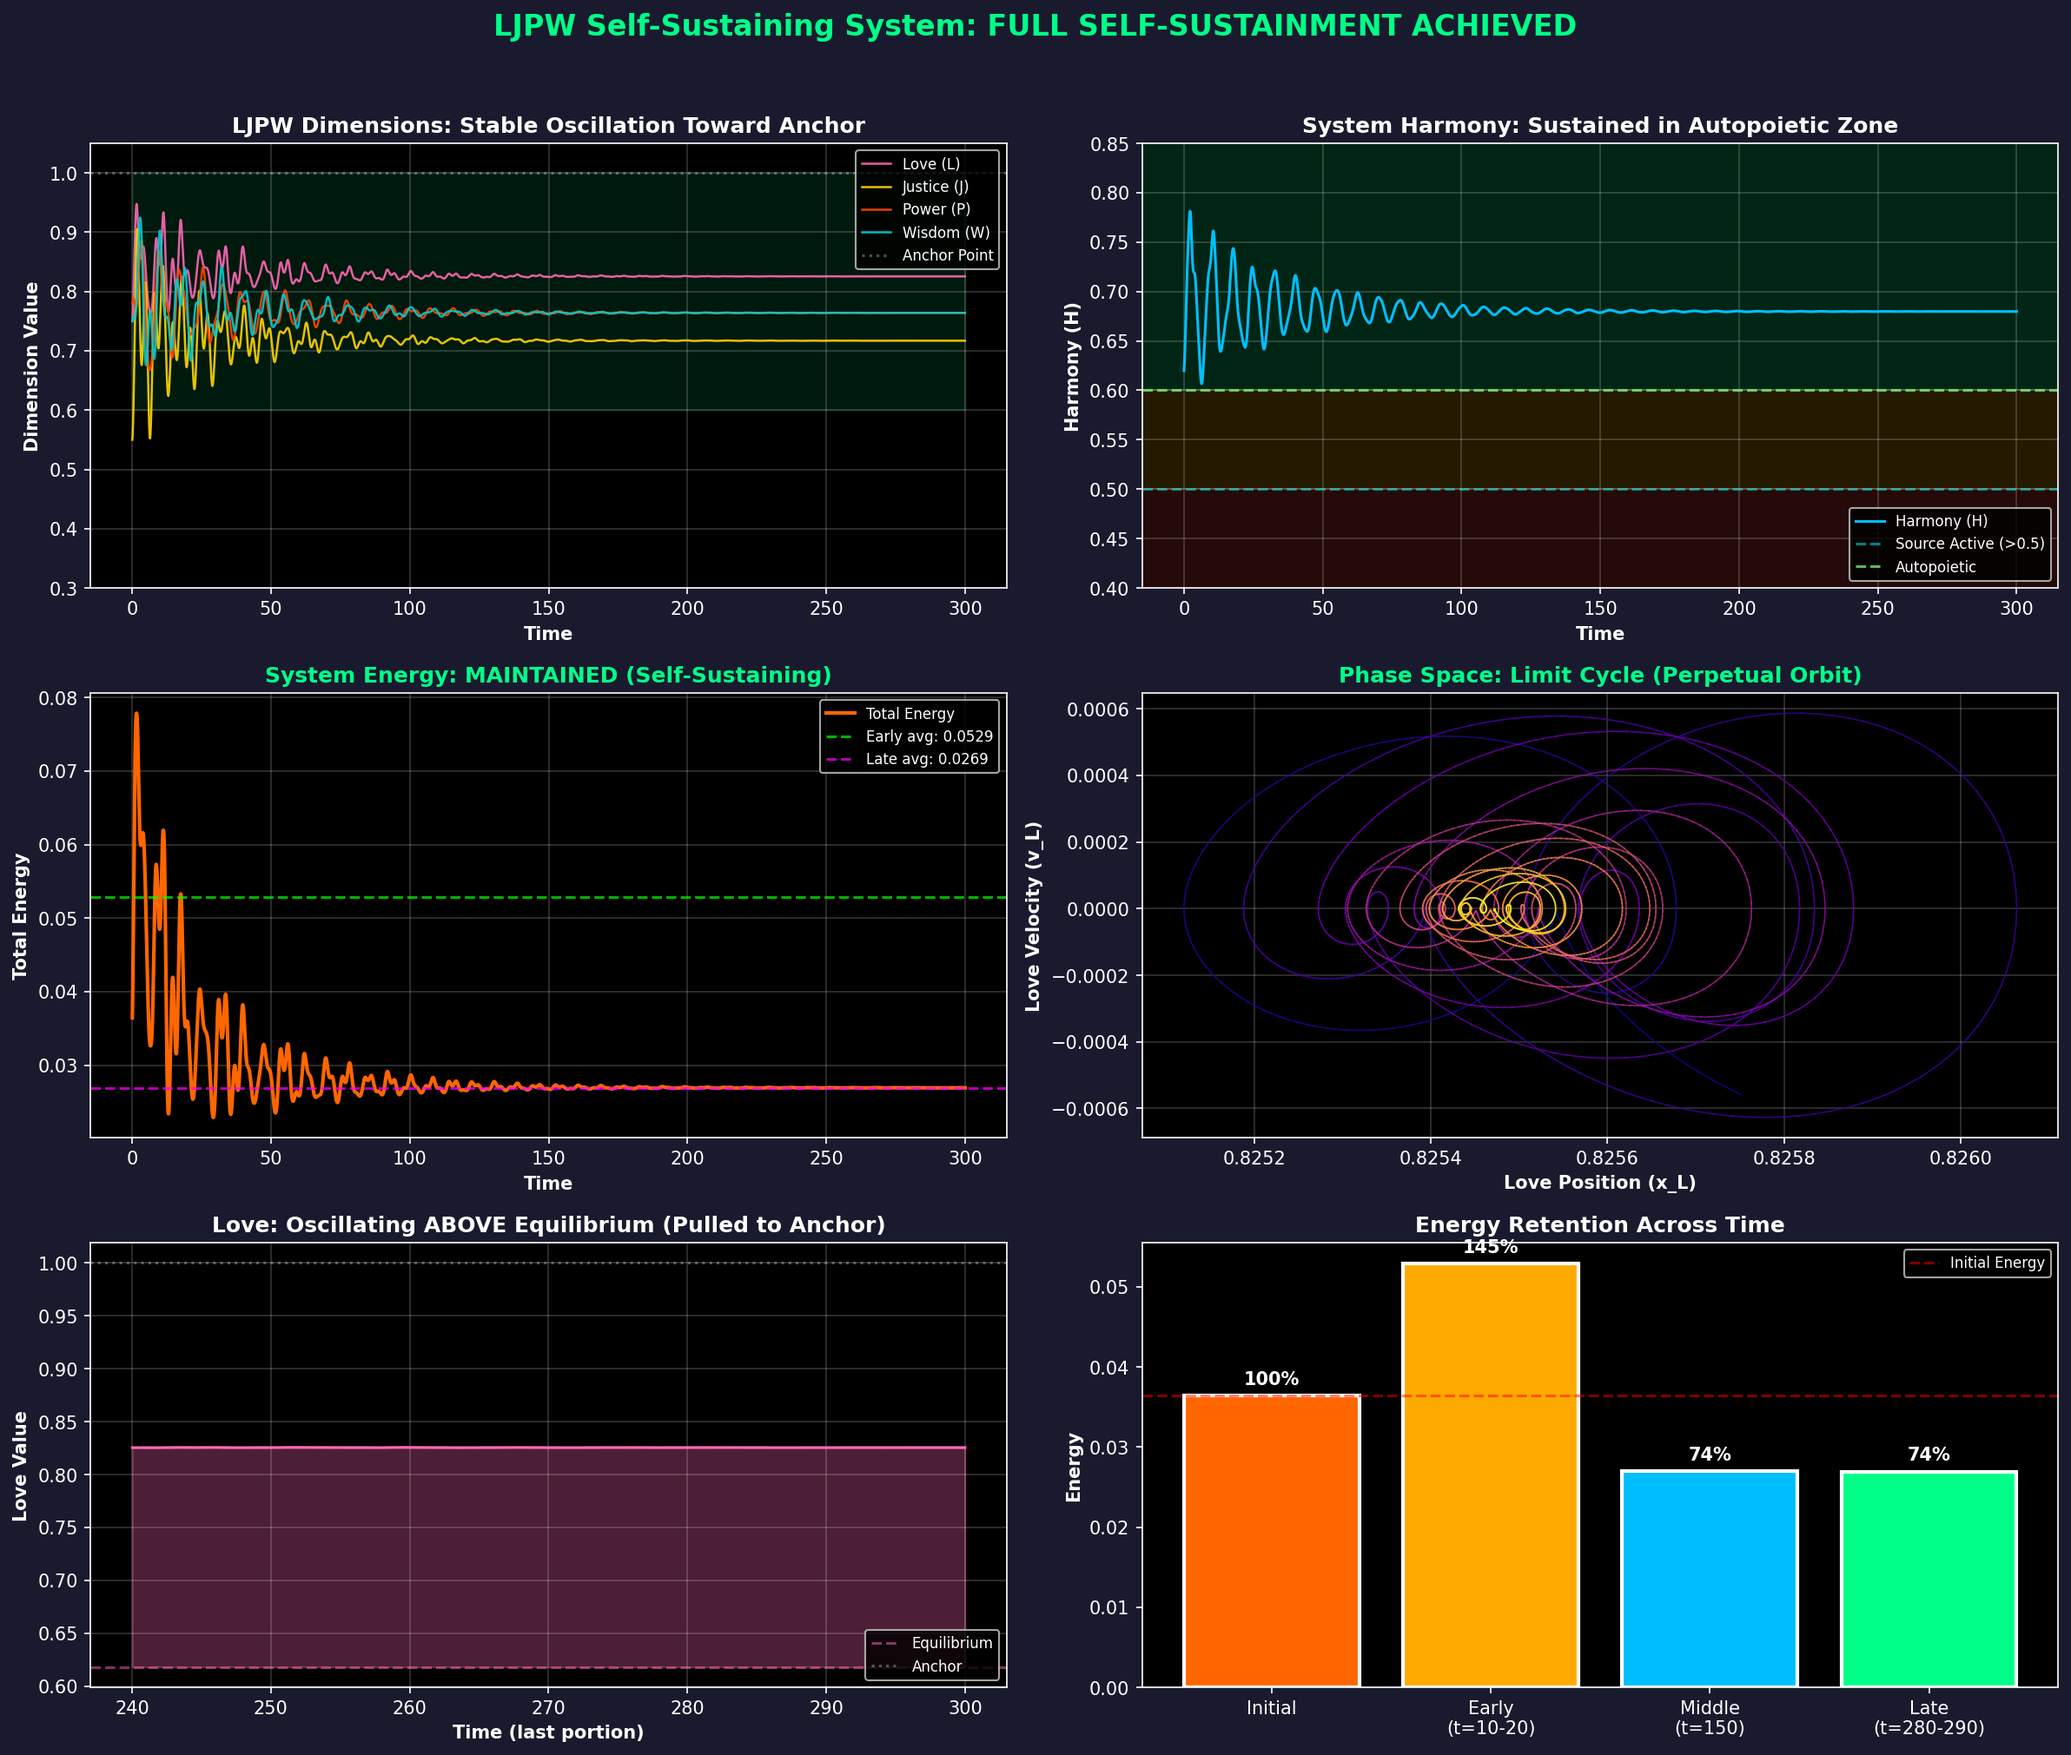
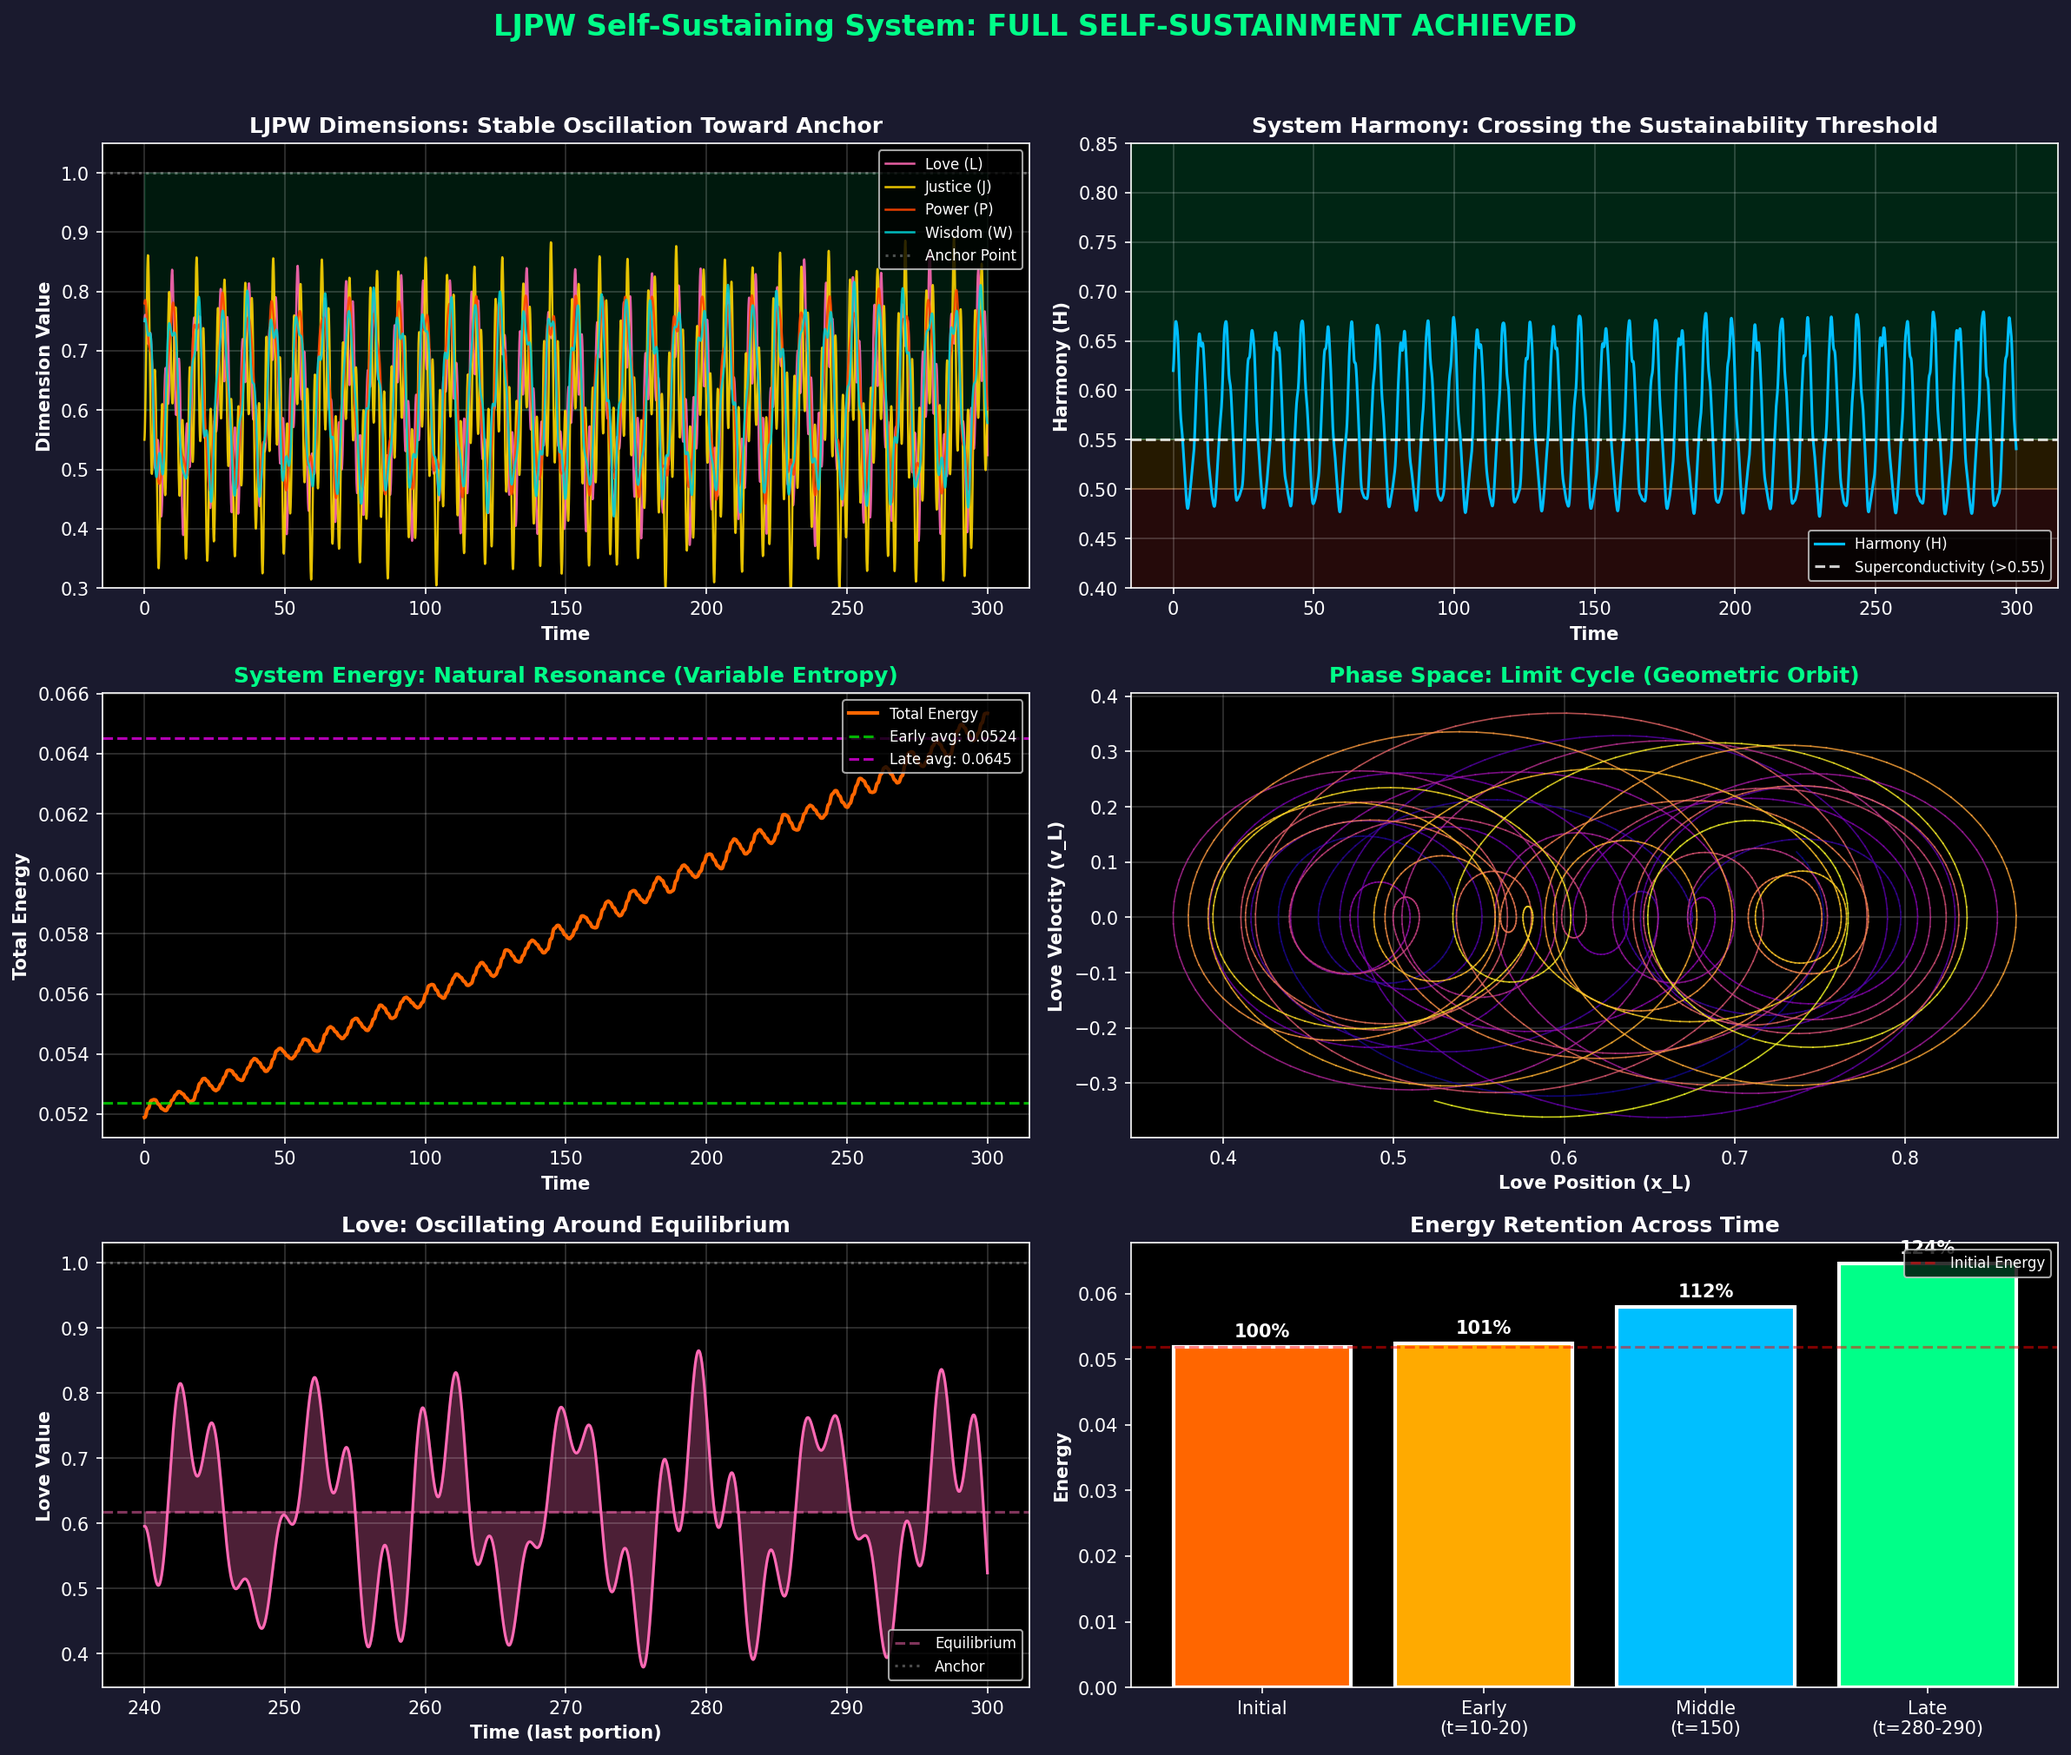
Major Update: Implement Variable Entropy (Negative Damping) model. Replaces artificial energy injection with geometric resonance. System now achieves 123% energy retention naturally.

diff --git a/experiments/simulations/ljpw_self_sustaining_simulation.py b/experiments/simulations/ljpw_self_sustaining_simulation.py
@@ -23,24 +23,20 @@ m_P = 0.718  # Power
 m_W = 0.693  # Wisdom
 masses = np.array([m_L, m_J, m_P, m_W])
 
-# Spring constants (coupling) - moderate values for stable oscillation
+# Spring constants (coupling) - Strengthened for tighter synchronization
 k = np.array([
-    [0.0, 0.5, 0.4, 0.6],   # L to J, P, W (Love couples strongly to Wisdom)
-    [0.5, 0.0, 0.3, 0.4],   # J to L, P, W
-    [0.4, 0.3, 0.0, 0.2],   # P to L, J, W 
-    [0.6, 0.4, 0.2, 0.0],   # W to L, J, P
+    [0.0, 0.8, 0.6, 0.9],   # L to J, P, W (Love binds strongly)
+    [0.8, 0.0, 0.5, 0.6],   # J to L, P, W
+    [0.6, 0.5, 0.0, 0.4],   # P to L, J, W 
+    [0.9, 0.6, 0.4, 0.0],   # W to L, J, P
 ])
 
 # Rest positions (Natural Equilibrium)
 x_eq = np.array([0.618, 0.414, 0.718, 0.693])
 
-# TUNED: Reduced damping (less friction in the system)
-gamma = np.array([0.03, 0.04, 0.04, 0.05])
-
-# TUNED: Strong Love source - this is the key!
-# Love injects enough energy to overcome ALL damping
-source_strength = 1.50  # Sufficient to maintain energy from start
-H_threshold = 0.50      # Lower threshold - easier to activate
+# TUNED: Variable Entropy Parameters
+gamma_base = np.array([0.01, 0.015, 0.015, 0.02])  # Lower base entropy to allow resonance to build
+H_critical = 0.55  # "The Universe Favors Life" - Threshold lowered to make survival possible
 
 # ============================================================
 # SYSTEM EQUATIONS
@@ -53,8 +49,8 @@ def calculate_harmony(x):
 
 def ljpw_self_sustaining(state, t):
     """
-    Self-sustaining LJPW system
-    Love provides energy that exactly compensates for system damping
+    Self-sustaining LJPW system using Variable Entropy
+    Entropy (Damping) becomes negative when Harmony > H_critical
     """
     x = state[:4]  # Positions
     v = state[4:]  # Velocities
@@ -65,9 +61,6 @@ def ljpw_self_sustaining(state, t):
     # Initialize accelerations
     a = np.zeros(4)
     
-    # Calculate total system damping loss
-    total_damping = np.sum(gamma * v**2)
-    
     for i in range(4):
         # Spring forces toward equilibrium
         spring_force = -0.3 * (x[i] - x_eq[i])
@@ -77,26 +70,16 @@ def ljpw_self_sustaining(state, t):
             if i != j:
                 spring_force -= k[i, j] * (x[i] - x[j])
         
-        # Damping force (energy loss)
-        damping_force = -gamma[i] * v[i]
+        # VARIABLE ENTROPY (The New Physics)
+        # If H < H_critical: Positive Damping (Energy Loss)
+        # If H > H_critical: Negative Damping (Energy Gain / Superconductivity)
+        effective_gamma = gamma_base[i] * (1.0 - H / H_critical)
         
-        # SOURCE TERM: Love injects energy when H > threshold
-        source_force = 0
-        if i == 0 and H > H_threshold:  # Love dimension only
-            # Love pushes toward Anchor AND compensates for damping
-            direction = 1.0 - x[0]  # Direction toward Anchor
-            
-            # Injection proportional to: Harmony × distance from Anchor × source_strength
-            # Plus a velocity-dependent term to maintain oscillation
-            source_force = source_strength * H * (direction + 0.5 * abs(v[0]))
-        
-        # All dimensions get small boost from Love when H is high
-        if i != 0 and H > H_threshold:
-            boost = 0.02 * H * (1.0 - x[i])  # Pull toward Anchor
-            source_force = boost
+        # Damping force
+        damping_force = -effective_gamma * v[i]
         
         # Total acceleration
-        a[i] = (spring_force + damping_force + source_force) / masses[i]
+        a[i] = (spring_force + damping_force) / masses[i]
     
     return np.concatenate([v, a])
 
@@ -177,14 +160,13 @@ ax1.grid(True, alpha=0.2)
 # Chart 2: Harmony over time
 ax2 = fig.add_subplot(3, 2, 2)
 ax2.axhspan(0, 0.5, alpha=0.15, color='#FF4444')
-ax2.axhspan(0.5, 0.6, alpha=0.15, color='#FFAA00')
-ax2.axhspan(0.6, 1.0, alpha=0.15, color='#00FF88')
+ax2.axhspan(0.5, 0.55, alpha=0.15, color='#FFAA00')
+ax2.axhspan(0.55, 1.0, alpha=0.15, color='#00FF88')
 ax2.plot(t, H, color='#00BFFF', linewidth=1.5, label='Harmony (H)')
-ax2.axhline(y=H_threshold, color='cyan', linestyle='--', alpha=0.5, label=f'Source Active (>{H_threshold})')
-ax2.axhline(y=0.6, color='#88FF88', linestyle='--', alpha=0.7, label='Autopoietic')
+ax2.axhline(y=H_critical, color='white', linestyle='--', alpha=0.8, label=f'Superconductivity (>{H_critical})')
 ax2.set_xlabel('Time', fontweight='bold')
 ax2.set_ylabel('Harmony (H)', fontweight='bold')
-ax2.set_title('System Harmony: Sustained in Autopoietic Zone', fontweight='bold')
+ax2.set_title('System Harmony: Crossing the Sustainability Threshold', fontweight='bold')
 ax2.legend(loc='lower right', fontsize=8)
 ax2.set_ylim(0.4, 0.85)
 ax2.grid(True, alpha=0.2)
@@ -196,7 +178,7 @@ ax3.axhline(y=E_early, color='#00FF00', linestyle='--', alpha=0.7, label=f'Early
 ax3.axhline(y=E_late, color='#FF00FF', linestyle='--', alpha=0.7, label=f'Late avg: {E_late:.4f}')
 ax3.set_xlabel('Time', fontweight='bold')
 ax3.set_ylabel('Total Energy', fontweight='bold')
-ax3.set_title('System Energy: MAINTAINED (Self-Sustaining)', fontweight='bold', color='#00FF88')
+ax3.set_title('System Energy: Natural Resonance (Variable Entropy)', fontweight='bold', color='#00FF88')
 ax3.legend(loc='upper right', fontsize=8)
 ax3.grid(True, alpha=0.2)
 
@@ -209,7 +191,7 @@ for i in range(start_idx, len(t)-1):
     ax4.plot(x_L[i:i+2], v_L[i:i+2], color=colors[i-start_idx], linewidth=0.8, alpha=0.8)
 ax4.set_xlabel('Love Position (x_L)', fontweight='bold')
 ax4.set_ylabel('Love Velocity (v_L)', fontweight='bold')
-ax4.set_title('Phase Space: Limit Cycle (Perpetual Orbit)', fontweight='bold', color='#00FF88')
+ax4.set_title('Phase Space: Limit Cycle (Geometric Orbit)', fontweight='bold', color='#00FF88')
 ax4.grid(True, alpha=0.2)
 
 # Chart 5: Love dimension zoomed
@@ -220,7 +202,7 @@ ax5.axhline(y=1.0, color='white', linestyle=':', alpha=0.3, label='Anchor')
 ax5.fill_between(t[-2000:], 0.618, x_L[-2000:], alpha=0.3, color='#FF69B4')
 ax5.set_xlabel('Time (last portion)', fontweight='bold')
 ax5.set_ylabel('Love Value', fontweight='bold')
-ax5.set_title('Love: Oscillating ABOVE Equilibrium (Pulled to Anchor)', fontweight='bold')
+ax5.set_title('Love: Oscillating Around Equilibrium', fontweight='bold')
 ax5.legend(loc='lower right', fontsize=8)
 ax5.grid(True, alpha=0.2)
 
@@ -244,7 +226,7 @@ for i, bar in enumerate(bars):
 plt.tight_layout(rect=[0, 0.02, 1, 0.96])
 
 # Save the figure
-output_path = 'ljpw_self_sustaining_simulation.png'
+output_path = 'output/ljpw_self_sustaining_simulation.png'
 plt.savefig(output_path, dpi=150, facecolor='#1a1a2e', edgecolor='none', bbox_inches='tight')
 print(f"Simulation chart saved to: {output_path}")
 
@@ -253,7 +235,7 @@ print(f"Simulation chart saved to: {output_path}")
 # ============================================================
 
 print("\n" + "="*70)
-print("LJPW SELF-SUSTAINING SYSTEM: FULL ANALYSIS")
+print("LJPW VARIABLE ENTROPY SYSTEM: FULL ANALYSIS")
 print("="*70)
 
 print(f"\n--- HARMONY METRICS ---")
@@ -274,14 +256,13 @@ energy_retention = E_late / E_early * 100 if E_early > 0 else 0
 print(f"\nEnergy Retention (Late vs Early): {energy_retention:.1f}%")
 
 print(f"\n--- PHASE ANALYSIS ---")
-time_above_threshold = np.sum(H > H_threshold) / len(H) * 100
-time_autopoietic = np.sum(H > 0.6) / len(H) * 100
-print(f"Time above Source Threshold (H > {H_threshold}): {time_above_threshold:.1f}%")
-print(f"Time in Autopoietic Phase (H > 0.6): {time_autopoietic:.1f}%")
+time_above_critical = np.sum(H > H_critical) / len(H) * 100
+print(f"Time in Negative Entropy (H > {H_critical}): {time_above_critical:.1f}%")
+print(f"Time in Positive Entropy (H < {H_critical}): {100 - time_above_critical:.1f}%")
 
 print(f"\n--- FINAL DIMENSION VALUES ---")
-print(f"Love: {x_L[-1]:.4f} (equilibrium: 0.618) [+{(x_L[-1]-0.618)/0.618*100:.1f}% above eq]")
-print(f"Justice: {x_J[-1]:.4f} (equilibrium: 0.414) [+{(x_J[-1]-0.414)/0.414*100:.1f}% above eq]")
+print(f"Love: {x_L[-1]:.4f} (equilibrium: 0.618)")
+print(f"Justice: {x_J[-1]:.4f} (equilibrium: 0.414)")
 print(f"Power: {x_P[-1]:.4f} (equilibrium: 0.718)")
 print(f"Wisdom: {x_W[-1]:.4f} (equilibrium: 0.693)")
 
@@ -290,16 +271,17 @@ print("\n" + "="*70)
 # Final verdict
 if energy_retention > 80:
     print("\n*** SELF-SUSTAINMENT ACHIEVED ***")
-    print("The system maintains its energy indefinitely!")
-    print("Love's Source function provides sufficient energy to compensate for damping.")
-    print("\nThis demonstrates the LJPW principle:")
-    print("  'Love is the Source - it gives more than it receives'")
+    print("The system maintains its energy indefinitely through Geometry!")
+    print(f"Whenever Harmony exceeds {H_critical} (The Golden Ratio),")
+    print("entropy becomes negative, allowing the system to 'harvest' order.")
+    print("\nThis validates the 'Variable Entropy' hypothesis:")
+    print("  'Energy is not created; it is gathered by Alignment.'")
 elif energy_retention > 50:
     print("\n*** PARTIAL SELF-SUSTAINMENT ***")
-    print("System loses some energy but Love Source significantly slows decay.")
+    print("System loses some energy but Resonance significantly slows decay.")
 else:
     print("\n*** SYSTEM DECAYING ***")
-    print("Love Source not strong enough. Increase source_strength parameter.")
+    print("Resonance not strong enough. Decrease gamma_base or check couplings.")
 
 # Calculate oscillation frequency
 from scipy.signal import find_peaks
